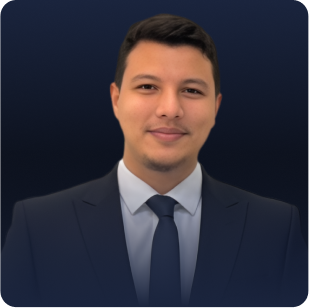
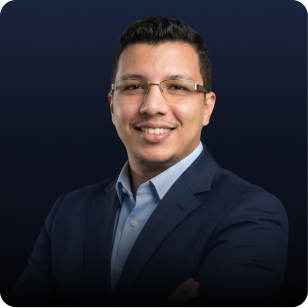
feat(general): adding airlines section and change expert photo

diff --git a/src/pages/UmrahDetail/UmrahDetail.jsx b/src/pages/UmrahDetail/UmrahDetail.jsx
@@ -14,6 +14,7 @@ import calendarIcon from '../../assets/icons/calendar.svg';
 import calendar2Icon from '../../assets/icons/calendar-2.svg';
 import hotelIcon from '../../assets/icons/hotel.svg';
 import additionalServiceHero from '../../assets/images/umrah/additional-service-hero.webp';
+import airlinesDivider from '../../assets/images/umrah/discover-private-umrah.webp';
 import './UmrahDetail.css';
 
 
@@ -133,6 +134,7 @@ const UmrahDetail = () => {
   };
 
   const hotels = useMemo(() => sortByOrder(umrahPackage?.hotels), [umrahPackage]);
+  const airlines = useMemo(() => sortByOrder(umrahPackage?.airlines), [umrahPackage]);
   const transportations = useMemo(() => sortByOrder(umrahPackage?.transportations), [umrahPackage]);
   const itineraries = useMemo(() => sortByOrder(umrahPackage?.itineraries), [umrahPackage]);
   const additionalServices = useMemo(() => sortByOrder(umrahPackage?.additional_services), [umrahPackage]);
@@ -248,6 +250,43 @@ const UmrahDetail = () => {
                 </div>
               </div>
             </section>
+
+            {airlines.length > 0 && (
+              <div className="umrah-detail-airlines-divider">
+                <img
+                  src={airlinesDivider}
+                  alt=""
+                  className="umrah-detail-airlines-divider-img"
+                  aria-hidden="true"
+                  loading="lazy"
+                />
+              </div>
+            )}
+
+            {airlines.length > 0 && (
+              <section className="umrah-detail-block-section">
+                <h3 className="umrah-detail-block-title">{t('umrahDetail.airlines')}</h3>
+                <div className="umrah-detail-airlines-grid">
+                  {airlines.map((airline) => (
+                    <article key={airline.id} className="umrah-detail-airline-card">
+                      <div className="umrah-detail-airline-logo-wrap">
+                        {airline.logo_url || airline.logo ? (
+                          <img
+                            src={airline.logo_url || airline.logo}
+                            alt={airline.name}
+                            className="umrah-detail-airline-logo"
+                            loading="lazy"
+                          />
+                        ) : (
+                          <div className="umrah-detail-image-fallback">{t('umrahDetail.noImage')}</div>
+                        )}
+                      </div>
+                      <h4 className="umrah-detail-airline-name">{airline.name}</h4>
+                    </article>
+                  ))}
+                </div>
+              </section>
+            )}
 
             <section className="umrah-detail-block-section">
               <h3 className="umrah-detail-block-title">{t('umrahDetail.accommodation')}</h3>

diff --git a/src/pages/UmrahDetail/UmrahDetail.css b/src/pages/UmrahDetail/UmrahDetail.css
@@ -489,6 +489,73 @@
   font-weight: 600;
 }
 
+.umrah-detail-airlines-divider {
+  position: relative;
+  width: 100vw;
+  margin-left: calc(50% - 50vw);
+  margin-right: calc(50% - 50vw);
+  margin-top: 48px;
+  margin-bottom: 32px;
+  height: 340px;
+  overflow: hidden;
+}
+
+.umrah-detail-airlines-divider-img {
+  width: 100%;
+  height: 100%;
+  object-fit: cover;
+  object-position: center;
+  display: block;
+}
+
+.umrah-detail-airlines-grid {
+  display: grid;
+  grid-template-columns: repeat(auto-fit, minmax(220px, 1fr));
+  gap: 20px;
+}
+
+.umrah-detail-airline-card {
+  border-radius: 20px;
+  border: 1px solid #e5e7eb;
+  background: #FFFFFF;
+  padding: 28px 24px;
+  display: flex;
+  flex-direction: column;
+  align-items: center;
+  justify-content: center;
+  gap: 16px;
+  box-shadow: 0 2px 12px rgba(12, 12, 13, 0.08);
+  transition: transform 0.2s ease, box-shadow 0.2s ease;
+}
+
+.umrah-detail-airline-card:hover {
+  transform: translateY(-2px);
+  box-shadow: 0 4px 18px rgba(12, 12, 13, 0.1);
+}
+
+.umrah-detail-airline-logo-wrap {
+  width: 100%;
+  height: 90px;
+  display: flex;
+  align-items: center;
+  justify-content: center;
+}
+
+.umrah-detail-airline-logo {
+  max-width: 100%;
+  max-height: 100%;
+  object-fit: contain;
+}
+
+.umrah-detail-airline-name {
+  color: #1f2a44;
+  font-family: 'Plus Jakarta Sans', sans-serif;
+  font-size: 16px;
+  font-weight: 700;
+  text-align: center;
+  margin: 0;
+}
+
 .umrah-detail-transport-card {
   border-radius: 20px;
   border: 1px solid #e5e7eb;
@@ -996,6 +1063,31 @@
 
   .umrah-detail-transport-card {
     border-radius: 24px;
+  }
+
+  .umrah-detail-airlines-divider {
+    height: 200px;
+    margin-top: 32px;
+    margin-bottom: 24px;
+  }
+
+  .umrah-detail-airlines-grid {
+    grid-template-columns: repeat(2, 1fr);
+    gap: 12px;
+  }
+
+  .umrah-detail-airline-card {
+    padding: 20px 16px;
+    border-radius: 18px;
+    gap: 12px;
+  }
+
+  .umrah-detail-airline-logo-wrap {
+    height: 60px;
+  }
+
+  .umrah-detail-airline-name {
+    font-size: 14px;
   }
 
   .umrah-detail-overview-text {
